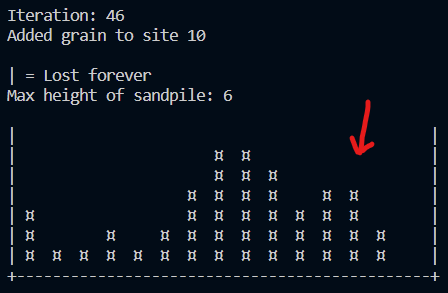
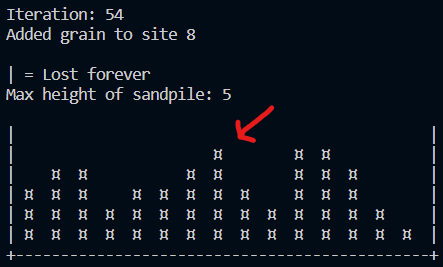
Minor changes.

diff --git a/monte_carlo_projects/mc_sandpile/main.py b/monte_carlo_projects/mc_sandpile/main.py
@@ -40,8 +40,8 @@ def topple(grid, num_sites:int) -> None:
             # print(f"Direction to topple: {direction}") # For testing
             grid[i] -= 2
             grid[i + direction] += 1
-            if abs(int(grid[i]) - int(grid[i + 1])) == 1: # If only 3 larger on one side
-                grid[i + 2*direction] += 1
+            if abs(int(grid[i]) - int(grid[i + direction])) > 2: # If more than 2 larger on one side
+                grid[i + 2 * direction] += 1
     plot_sandpile(grid)  # Call plot_sandpile after toppling
 
 def plot_sandpile(grid) -> None:
@@ -78,6 +78,6 @@ def run_sandpile(num_sites:int, iterations:int) -> None:
         topple(grid, num_sites) # Checks/handles sites to see if they need to be toppled
 
 if __name__ == "__main__":
-    iterations = 50  # Desired number of iterations
+    iterations = 60  # Desired number of iterations
     num_sites = 15 # Number of sites
     run_sandpile(num_sites, iterations) # Runs the sandpile simulation
